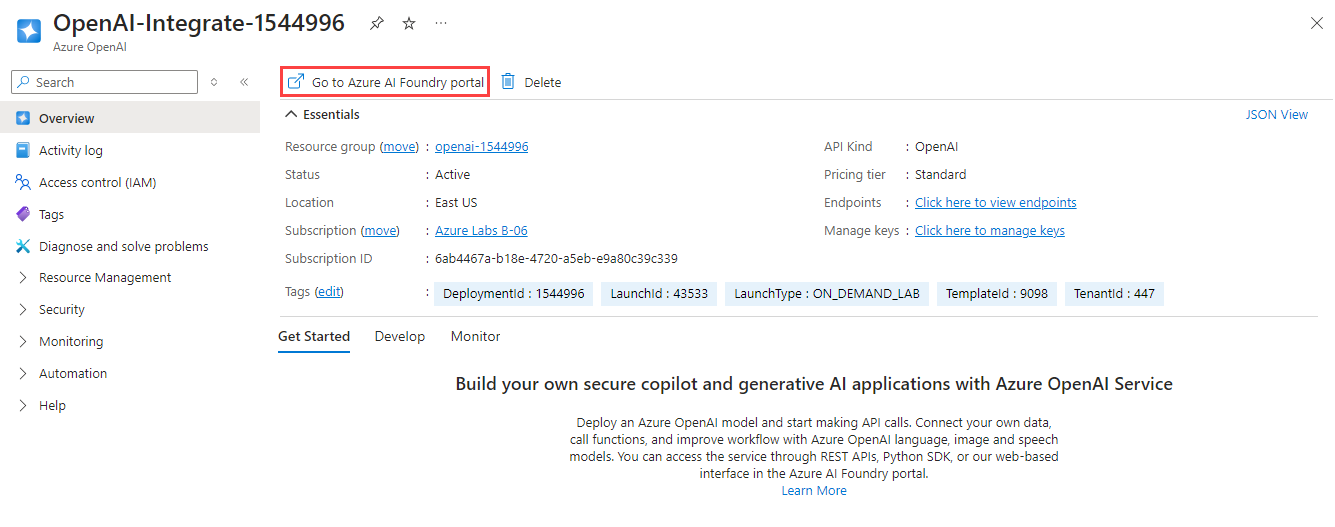
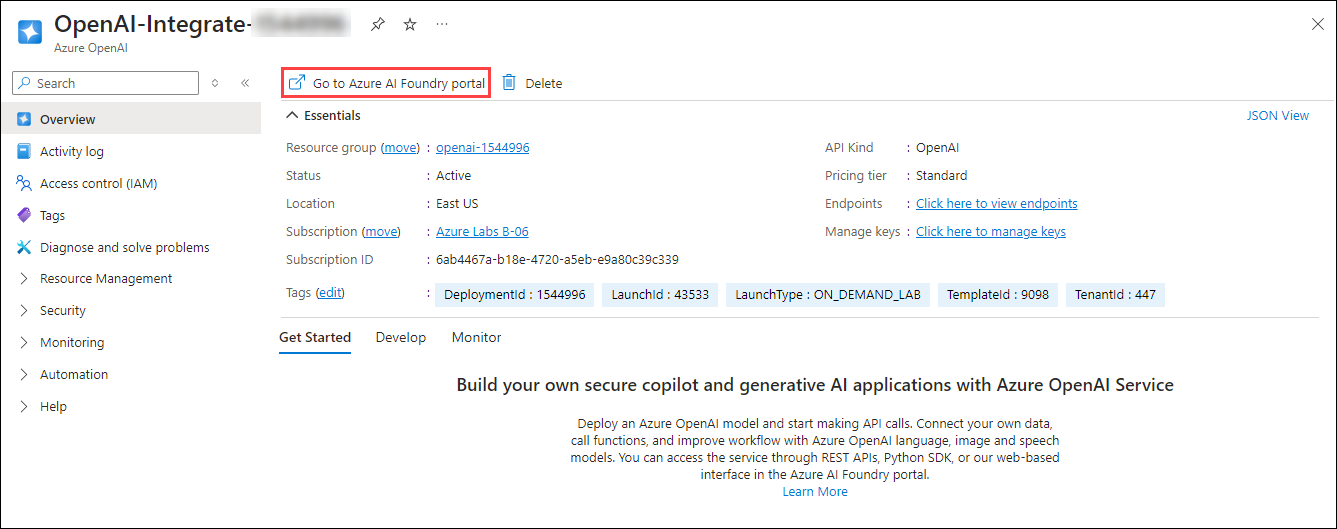
updates

diff --git a/Instructions/Labs/Standalone-lab2.md b/Instructions/Labs/Standalone-lab2.md
@@ -74,7 +74,7 @@ In this task, you'll deploy a specific AI model instance within your Azure OpenA
 
 1. In the Azure OpenAI resource pane, click on **Go to Azure AI Foundry Portal** it will navigate to **Azure AI Foundry**.
 
-   ![](../media/imga.png)
+    ![](../media/imagee.png)
 
 1. In the prompt titled **Discover an even better Azure AI Studio experience**, click **Close**.
 
